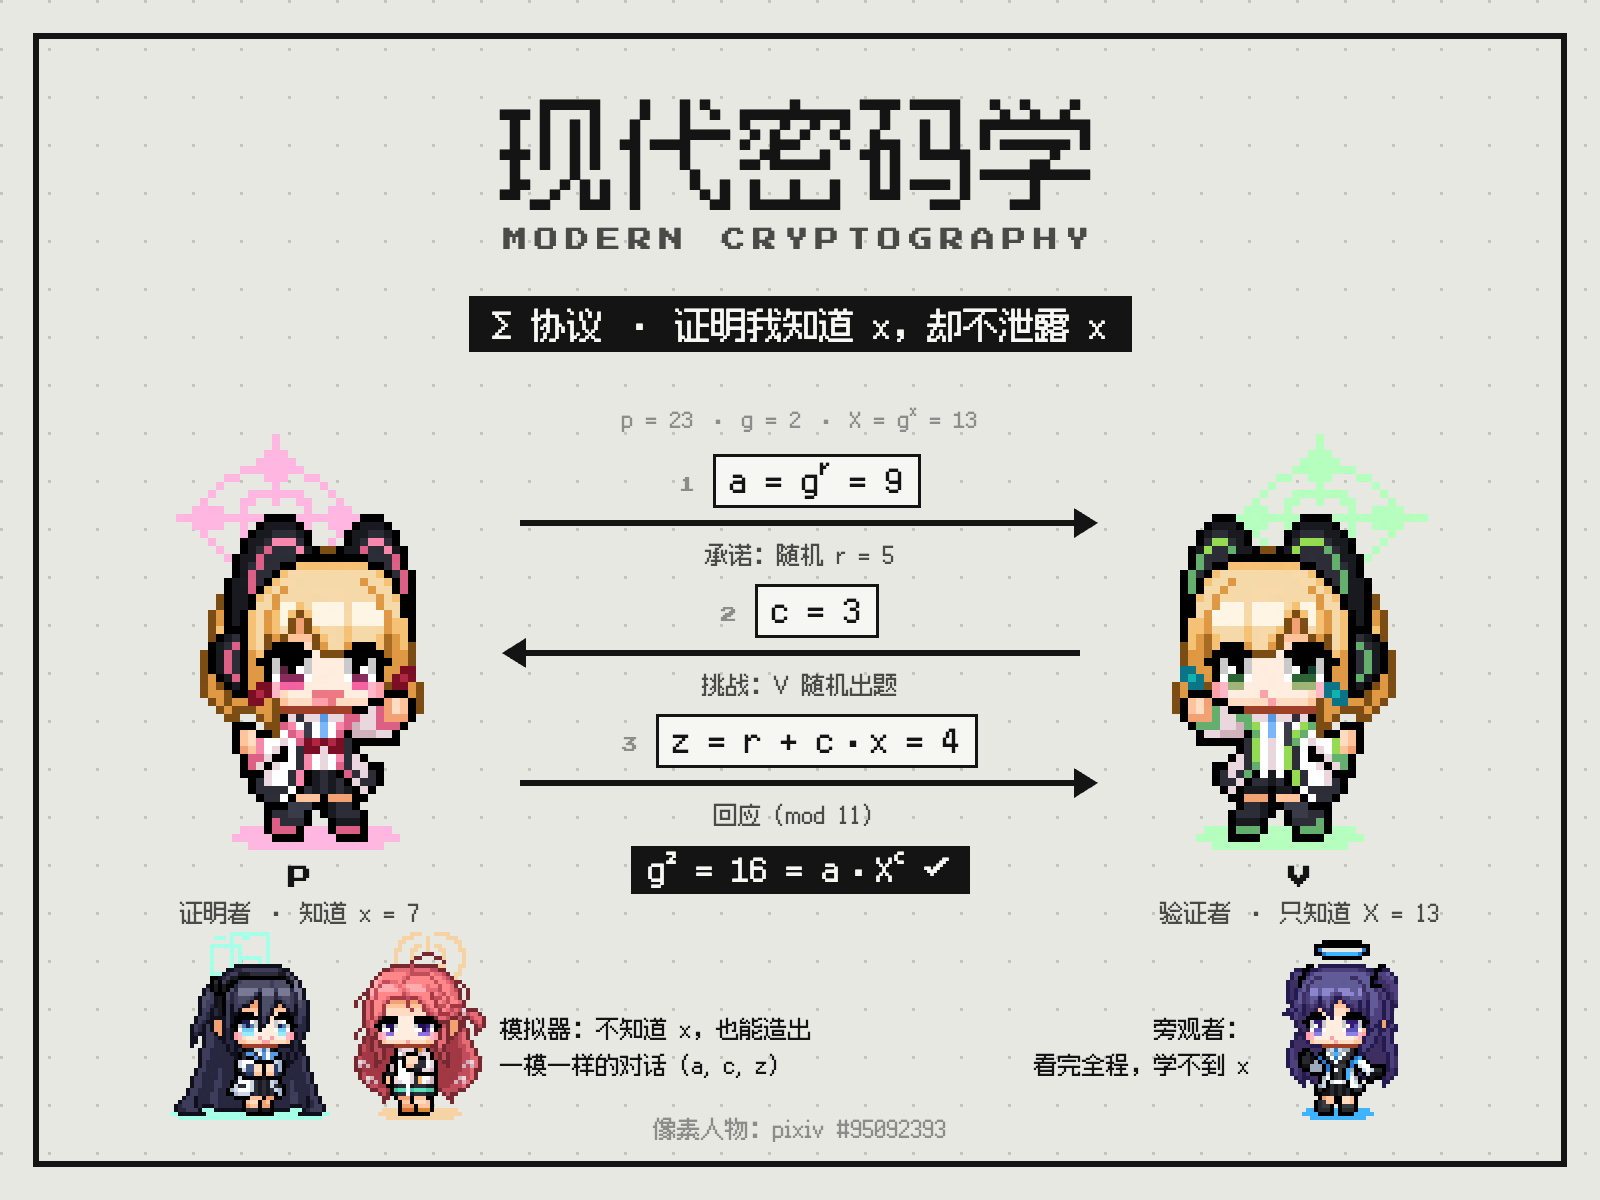
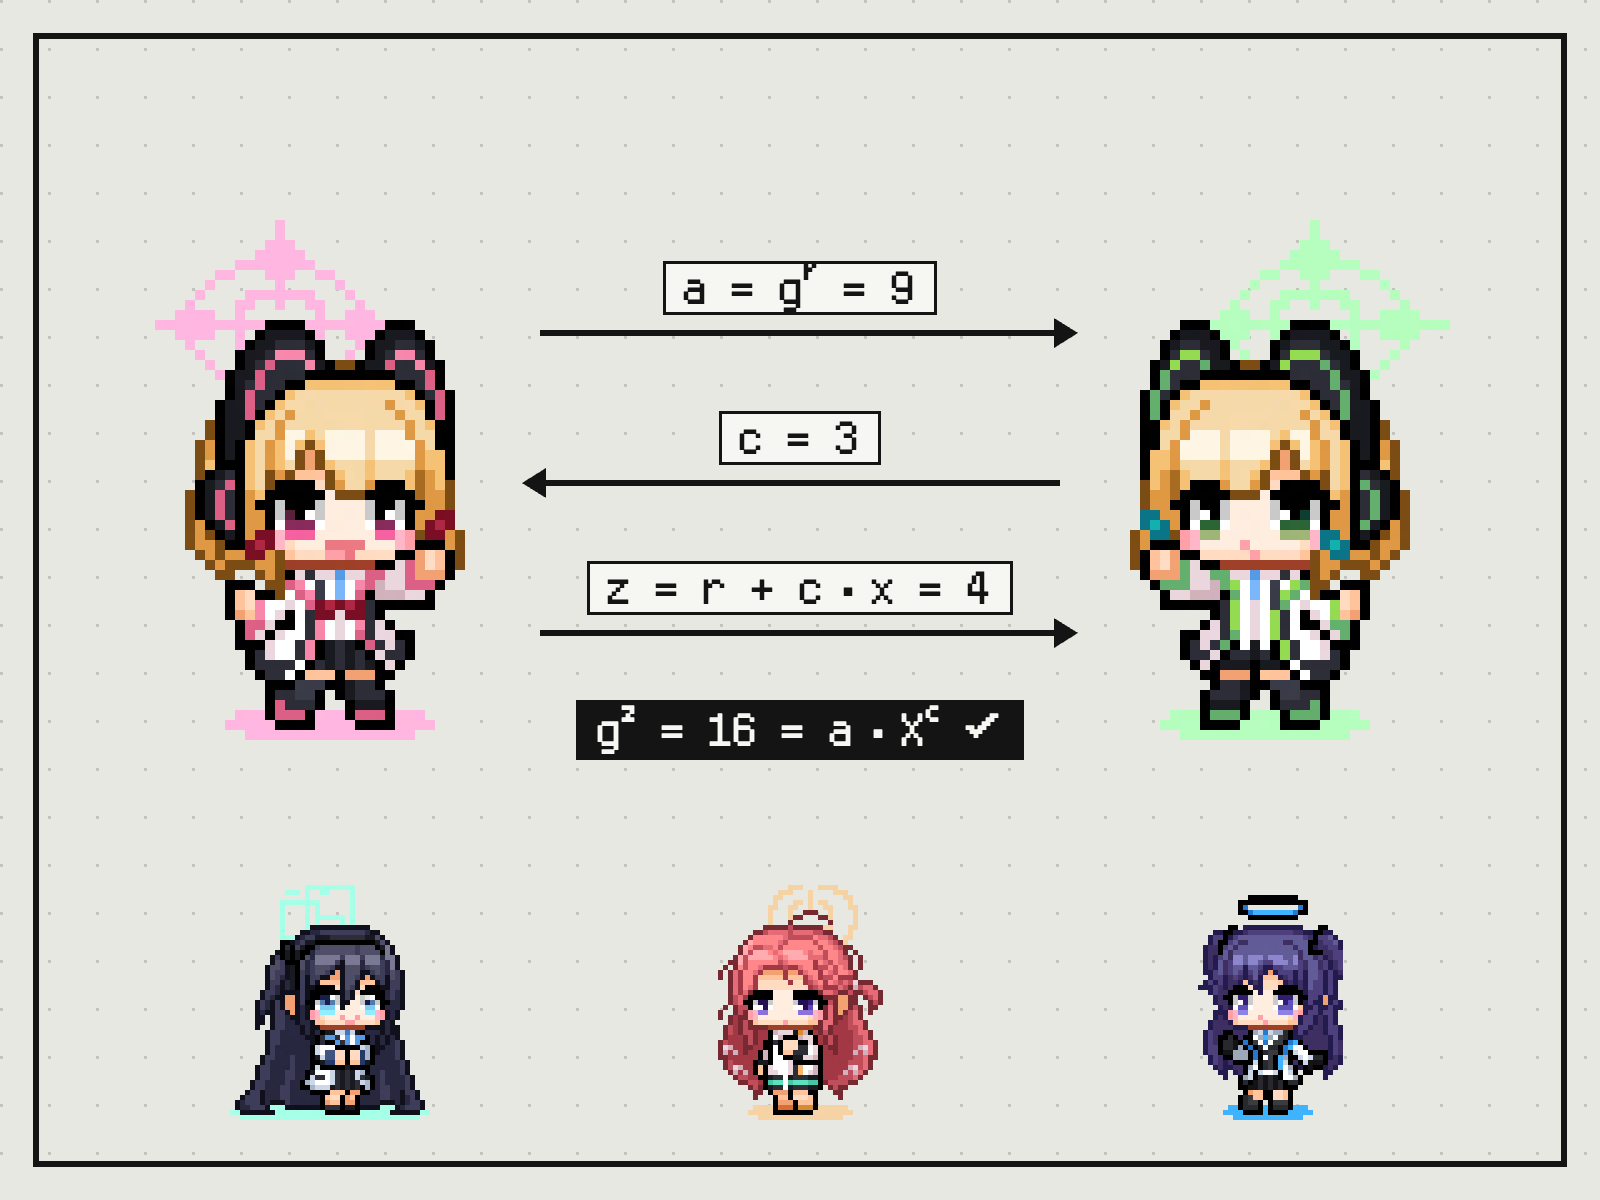
cover: only the interaction text, larger prover / verifier

Changed region(s): [[0.0938, 0.0617, 0.9062, 0.9558], [0.625, 0.74, 0.875, 0.9558]]

diff --git a/src/cover/Cover.tsx b/src/cover/Cover.tsx
@@ -46,14 +46,10 @@ const Chara: React.FC<{name: string; x: number; bottom: number; scale: number; f
   );
 };
 
-const Label: React.FC<{x: number; y: number; w: number; children: React.ReactNode; align?: 'left' | 'center' | 'right'}> = ({x, y, w, children, align = 'center'}) => (
-  <div style={{position: 'absolute', left: x, top: y, width: w, textAlign: align}}>{children}</div>
-);
-
-/** one protocol message: a horizontal pixel arrow with a label block above it */
-const Msg: React.FC<{y: number; dir: 'right' | 'left'; step: string; label: React.ReactNode; note: string}> = ({y, dir, step, label, note}) => {
-  const x0 = 520;
-  const x1 = 1080;
+/** one protocol message: a horizontal pixel arrow with the message above it */
+const Msg: React.FC<{y: number; dir: 'right' | 'left'; label: React.ReactNode}> = ({y, dir, label}) => {
+  const x0 = 540;
+  const x1 = 1060;
   return (
     <>
       <svg width={1600} height={1200} style={{position: 'absolute', left: 0, top: 0}} shapeRendering="crispEdges">
@@ -64,18 +60,15 @@ const Msg: React.FC<{y: number; dir: 'right' | 'left'; step: string; label: Reac
           <polygon points={`${x0 - 18},${y + 3} ${x0 + 6},${y - 12} ${x0 + 6},${y + 18}`} fill={COL.ink} />
         )}
       </svg>
-      <div style={{position: 'absolute', left: x0, top: y - 66, width: x1 - x0, display: 'flex', justifyContent: 'center', alignItems: 'baseline', gap: 18, whiteSpace: 'nowrap'}}>
-        <span style={{fontFamily: FONT.press, fontSize: 16, color: COL.dim}}>{step}</span>
-        <span style={{fontFamily: FONT.pixelMono, fontSize: 36, lineHeight: '48px', color: COL.text, background: COL.panel, border: `3px solid ${COL.ink}`, padding: '0 14px'}}>{label}</span>
+      <div style={{position: 'absolute', left: x0, top: y - 72, width: x1 - x0, textAlign: 'center'}}>
+        <span style={{fontFamily: FONT.pixelMono, fontSize: 48, lineHeight: '60px', color: COL.text, background: COL.panel, border: `3px solid ${COL.ink}`, padding: '0 18px', whiteSpace: 'nowrap'}}>{label}</span>
       </div>
-      <div style={{position: 'absolute', left: x0, top: y + 18, width: x1 - x0, textAlign: 'center', fontFamily: FONT.pixel, fontSize: 24, color: COL.sub}}>{note}</div>
     </>
   );
 };
 
 export const Cover: React.FC = () => (
   <AbsoluteFill style={{background: COL.bg}}>
-    {/* paper dot grid */}
     <svg width={1600} height={1200} style={{position: 'absolute'}} shapeRendering="crispEdges">
       <defs>
         <pattern id="cv-dots" width={48} height={48} patternUnits="userSpaceOnUse">
@@ -83,64 +76,26 @@ export const Cover: React.FC = () => (
         </pattern>
       </defs>
       <rect x={0} y={0} width={1600} height={1200} fill="url(#cv-dots)" />
-      {/* frame */}
       <rect x={36} y={36} width={1528} height={1128} fill="none" stroke={COL.ink} strokeWidth={6} />
     </svg>
 
-    {/* title */}
-    <Label x={0} y={84} w={1600}>
-      <div style={{fontFamily: FONT.pixel, fontSize: 120, lineHeight: '132px', color: COL.text}}>现代密码学</div>
-      <div style={{fontFamily: FONT.press, fontSize: 24, color: COL.sub, letterSpacing: '0.3em', marginTop: 12}}>MODERN CRYPTOGRAPHY</div>
-    </Label>
-    <Label x={0} y={300} w={1600}>
-      <span style={{fontFamily: FONT.pixel, fontSize: 36, color: COL.invText, background: COL.inv, padding: '4px 24px'}}>Σ 协议 · 证明我知道 x，却不泄露 x</span>
-    </Label>
+    {/* prover (Momoi) and verifier (Midori), facing each other */}
+    <Chara name="momoi" x={310} bottom={740} scale={10} face="right" />
+    <Chara name="midori" x={1290} bottom={740} scale={10} face="left" />
 
-    {/* main cast: prover (Momoi) and verifier (Midori) */}
-    <Chara name="momoi" x={300} bottom={850} scale={8} face="right" />
-    <Chara name="midori" x={1300} bottom={850} scale={8} face="left" />
-    <Label x={140} y={866} w={320}>
-      <div style={{fontFamily: FONT.press, fontSize: 24, color: COL.text}}>P</div>
-      <div style={{fontFamily: FONT.pixel, fontSize: 24, color: COL.sub, marginTop: 6}}>证明者 · 知道 x = {X_SECRET}</div>
-    </Label>
-    <Label x={1140} y={866} w={320}>
-      <div style={{fontFamily: FONT.press, fontSize: 24, color: COL.text}}>V</div>
-      <div style={{fontFamily: FONT.pixel, fontSize: 24, color: COL.sub, marginTop: 6}}>验证者 · 只知道 X = {X_PUB}</div>
-    </Label>
-
-    {/* the three moves */}
-    <Label x={520} y={402} w={560}>
-      <span style={{fontFamily: FONT.pixelMono, fontSize: 24, color: COL.dim}}>
-        p = {P} · g = {G} · X = gˣ = {X_PUB}
-      </span>
-    </Label>
-    <Msg y={520} dir="right" step="1" label={<>a = gʳ = {A}</>} note={`承诺：随机 r = ${R}`} />
-    <Msg y={650} dir="left" step="2" label={<>c = {C}</>} note="挑战：V 随机出题" />
-    <Msg y={780} dir="right" step="3" label={<>z = r + c·x = {Z}</>} note={`回应（mod ${Q}）`} />
-
-    {/* verification */}
-    <Label x={520} y={846} w={560}>
-      <span style={{fontFamily: FONT.pixelMono, fontSize: 36, lineHeight: '48px', color: COL.invText, background: COL.inv, padding: '6px 18px', whiteSpace: 'nowrap'}}>
+    {/* the interaction */}
+    <Msg y={330} dir="right" label={<>a = gʳ = {A}</>} />
+    <Msg y={480} dir="left" label={<>c = {C}</>} />
+    <Msg y={630} dir="right" label={<>z = r + c·x = {Z}</>} />
+    <div style={{position: 'absolute', left: 540, top: 700, width: 520, textAlign: 'center'}}>
+      <span style={{fontFamily: FONT.pixelMono, fontSize: 48, lineHeight: '60px', color: COL.invText, background: COL.inv, padding: '6px 22px', whiteSpace: 'nowrap'}}>
         gᶻ = {LHS} = a·Xᶜ {LHS === RHS ? '✓' : '✗'}
       </span>
-    </Label>
+    </div>
 
-    {/* supporting cast */}
-    <Chara name="arisu" x={250} bottom={1120} scale={4} face="right" />
-    <Chara name="yuzu" x={420} bottom={1120} scale={4} face="right" />
-    <Label x={500} y={1010} w={420} align="left">
-      <div style={{fontFamily: FONT.pixel, fontSize: 24, lineHeight: '36px', color: COL.text}}>模拟器：不知道 x，也能造出</div>
-      <div style={{fontFamily: FONT.pixel, fontSize: 24, lineHeight: '36px', color: COL.text}}>一模一样的对话 (a, c, z)</div>
-    </Label>
-    <Chara name="yuuka" x={1340} bottom={1120} scale={4} face="left" />
-    <Label x={920} y={1010} w={330} align="right">
-      <div style={{fontFamily: FONT.pixel, fontSize: 24, lineHeight: '36px', color: COL.text}}>旁观者：</div>
-      <div style={{fontFamily: FONT.pixel, fontSize: 24, lineHeight: '36px', color: COL.text}}>看完全程，学不到 x</div>
-    </Label>
-
-    {/* credit */}
-    <Label x={0} y={1112} w={1600} align="center">
-      <span style={{fontFamily: FONT.pixel, fontSize: 24, color: COL.dim}}>像素人物：pixiv #95092393</span>
-    </Label>
+    {/* the rest of the department */}
+    <Chara name="arisu" x={330} bottom={1120} scale={5} face="right" />
+    <Chara name="yuzu" x={800} bottom={1120} scale={5} face="right" />
+    <Chara name="yuuka" x={1270} bottom={1120} scale={5} face="left" />
   </AbsoluteFill>
 );

diff --git a/README.md b/README.md
@@ -131,7 +131,7 @@ bash scripts/render_all.sh                    # 四个版本 → out/Crypto_MV_{
 npm run render                                # 仅完整版
 npm run render:short                          # 仅短版
 bash scripts/sheet.sh name sym_diff:300 pk_dh:350   # 按「镜头:场景帧」渲染静帧并拼图到 out/name.jpg
-npx remotion still Cover assets/cover.png --image-format=png   # 封面（1600×1200，4:3）：游戏开发部执行一次 Σ 协议
+npx remotion still Cover assets/cover.png --image-format=png   # 封面（1600×1200，4:3）：游戏开发部执行一次 Σ 协议（画面只保留交互本身的文字）
 ```
 
 渲染配置在 `remotion.config.ts`（h264 / crf 17 / yuv420p / jpeg 92，并发 8）。本地渲染前先 `npm run music` 生成 `public/*.wav`（母带不进仓库）。
